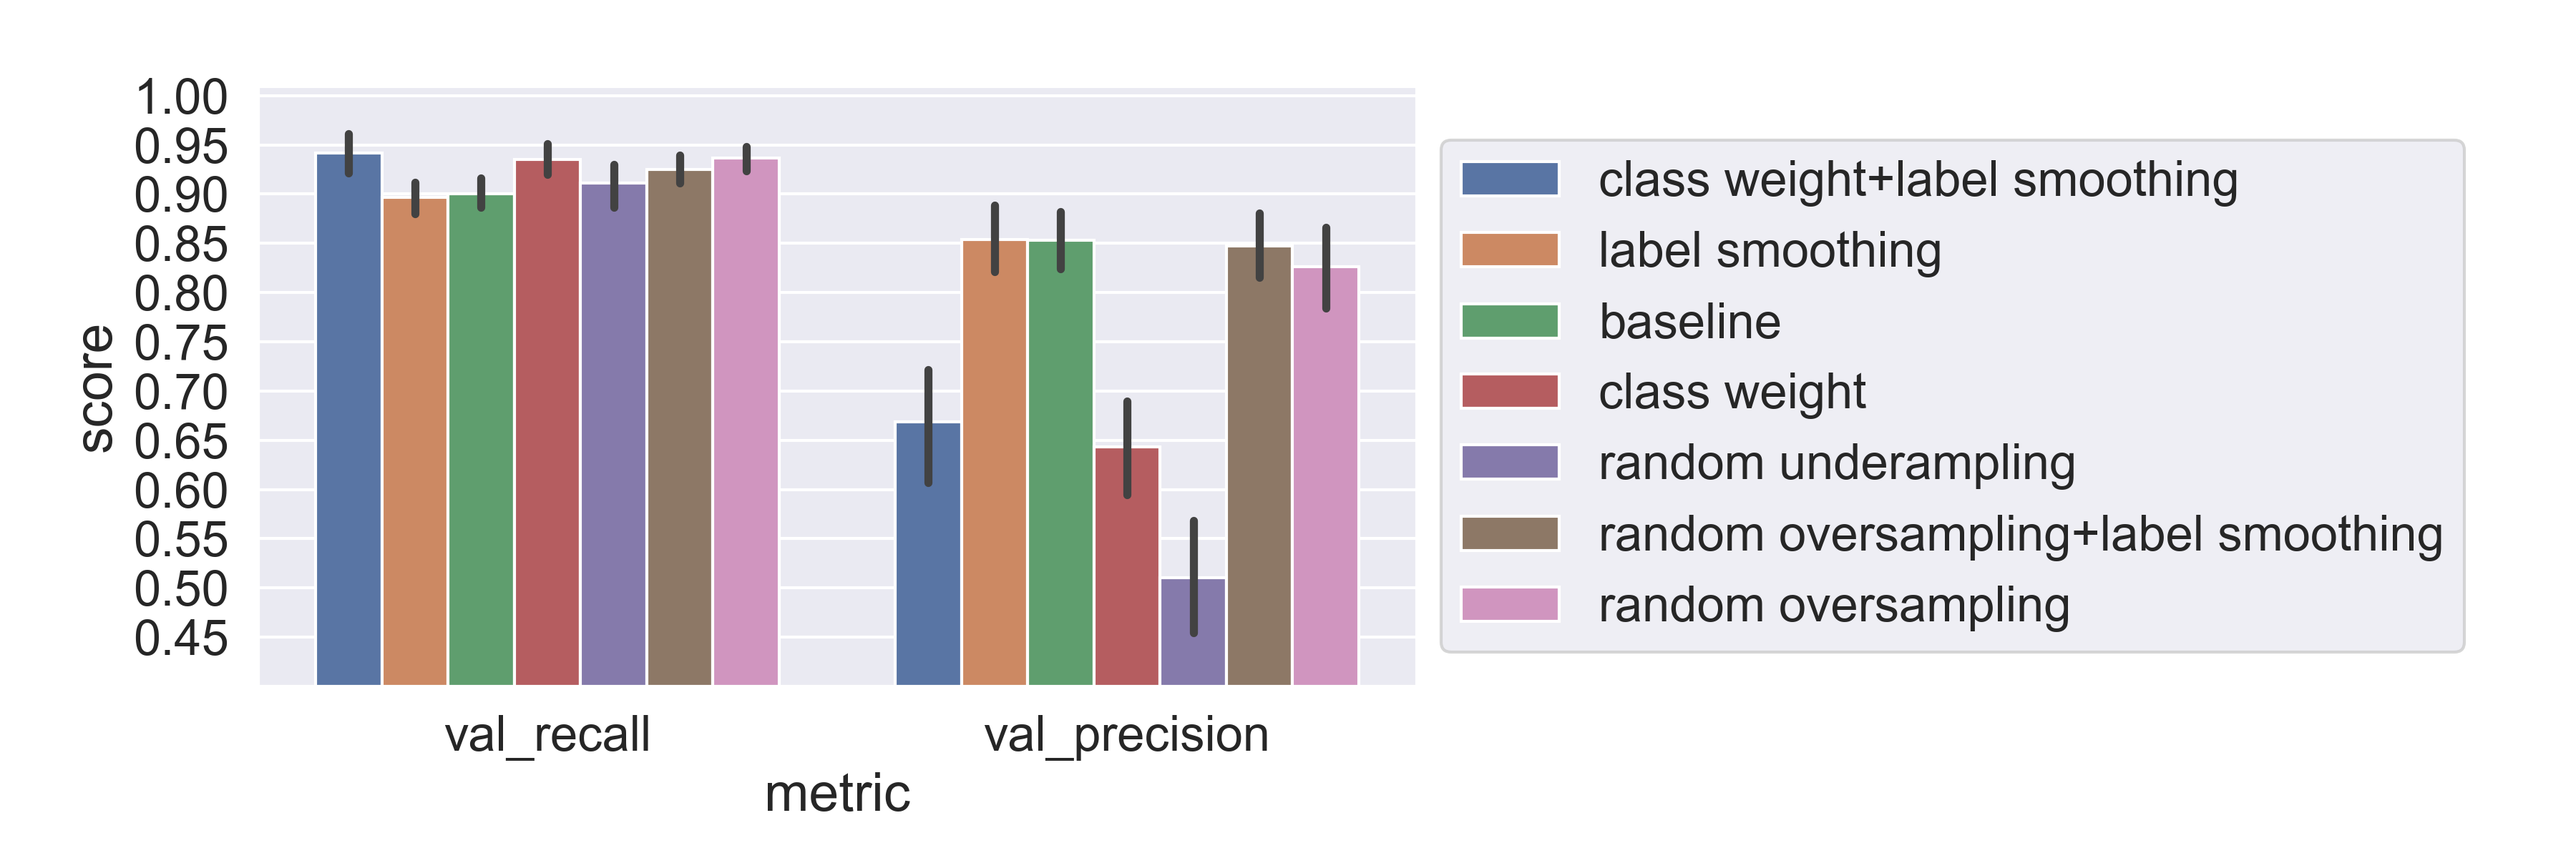
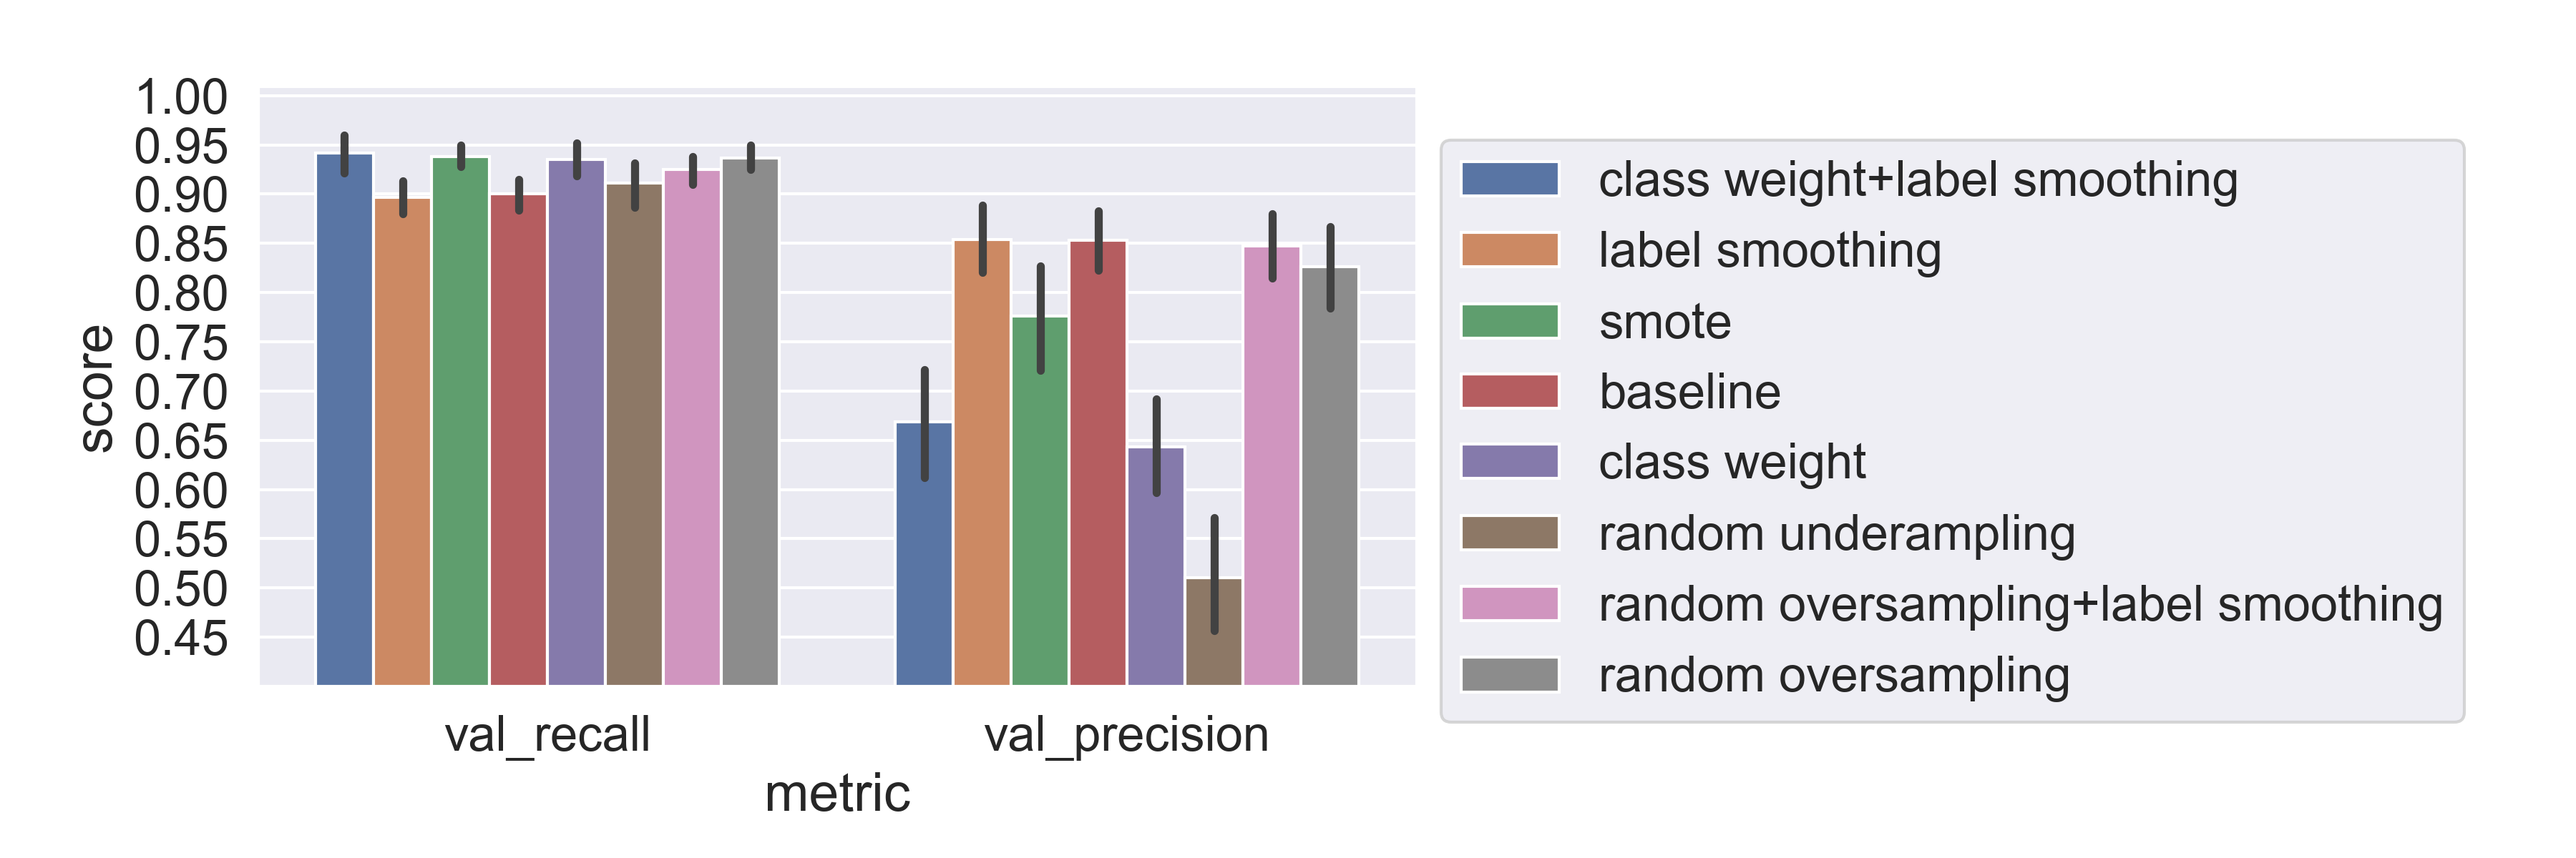
Add a basic SMOTE method

diff --git a/gw_universe/datasets/rb.py b/gw_universe/datasets/rb.py
@@ -94,6 +94,22 @@ class InMemoryDataLoader(tf.keras.utils.Sequence):
         elif self.resampling == 'random_undersampling':
             return self.random_undersampling(self.labels)
 
+        elif self.resampling == 'smote':
+            if not hasattr(self, 'smote'):
+                self._cache = dict(
+                    images=self.images.copy(),
+                    labels=self.labels.copy()
+                )
+                self.smote = SMOTE()
+                minor_class = np.argmin(np.bincount(self.labels))
+                self._cache['minor_class'] = minor_class
+                self.smote.fit(self.images[np.where(self.labels == minor_class)])
+
+            X_gen = self.smote.generate()
+            self.images = np.concatenate((self._cache['images'], X_gen), axis=0)
+            self.labels = np.concatenate((self._cache['labels'], np.array(len(X_gen) * [self._cache['minor_class']])))
+            return np.arange(len(self.images))
+
     @staticmethod
     def random_oversampling(y):
         indices = np.arange(len(y))
@@ -121,3 +137,33 @@ class InMemoryDataLoader(tf.keras.utils.Sequence):
             resampled_indices += np.random.choice(indices[pool_indices], target_num, replace=replace).tolist()
 
         return np.array(resampled_indices)
+
+
+class SMOTE:
+    def __init__(self, k=5, n=11, noise_scale=0.001):
+        self.k = k
+        self.n = n
+        self.noise_scale = noise_scale
+        self.X = None
+        self.neigh = None
+
+    def fit(self, X):
+        self.X = X
+        n = len(X)
+        D = np.zeros((n, n))
+        for i in range(n):
+            for j in range(n):
+                D[i, j] = np.linalg.norm(X[i].flatten() - X[j].flatten())
+        self.neigh = np.argsort(D, axis=1)[:, :self.k]
+
+    def generate(self):
+        X_gen = []
+        for i, x in enumerate(self.X):
+            indices = np.random.choice(self.neigh[i], size=self.n, replace=True)
+            neighbors = self.X[indices]
+            diff = neighbors - x
+            e = self.noise_scale * np.random.normal(size=diff.shape)
+            X_gen.append(x + diff * e)
+        X_gen = np.vstack(X_gen)
+
+        return X_gen
